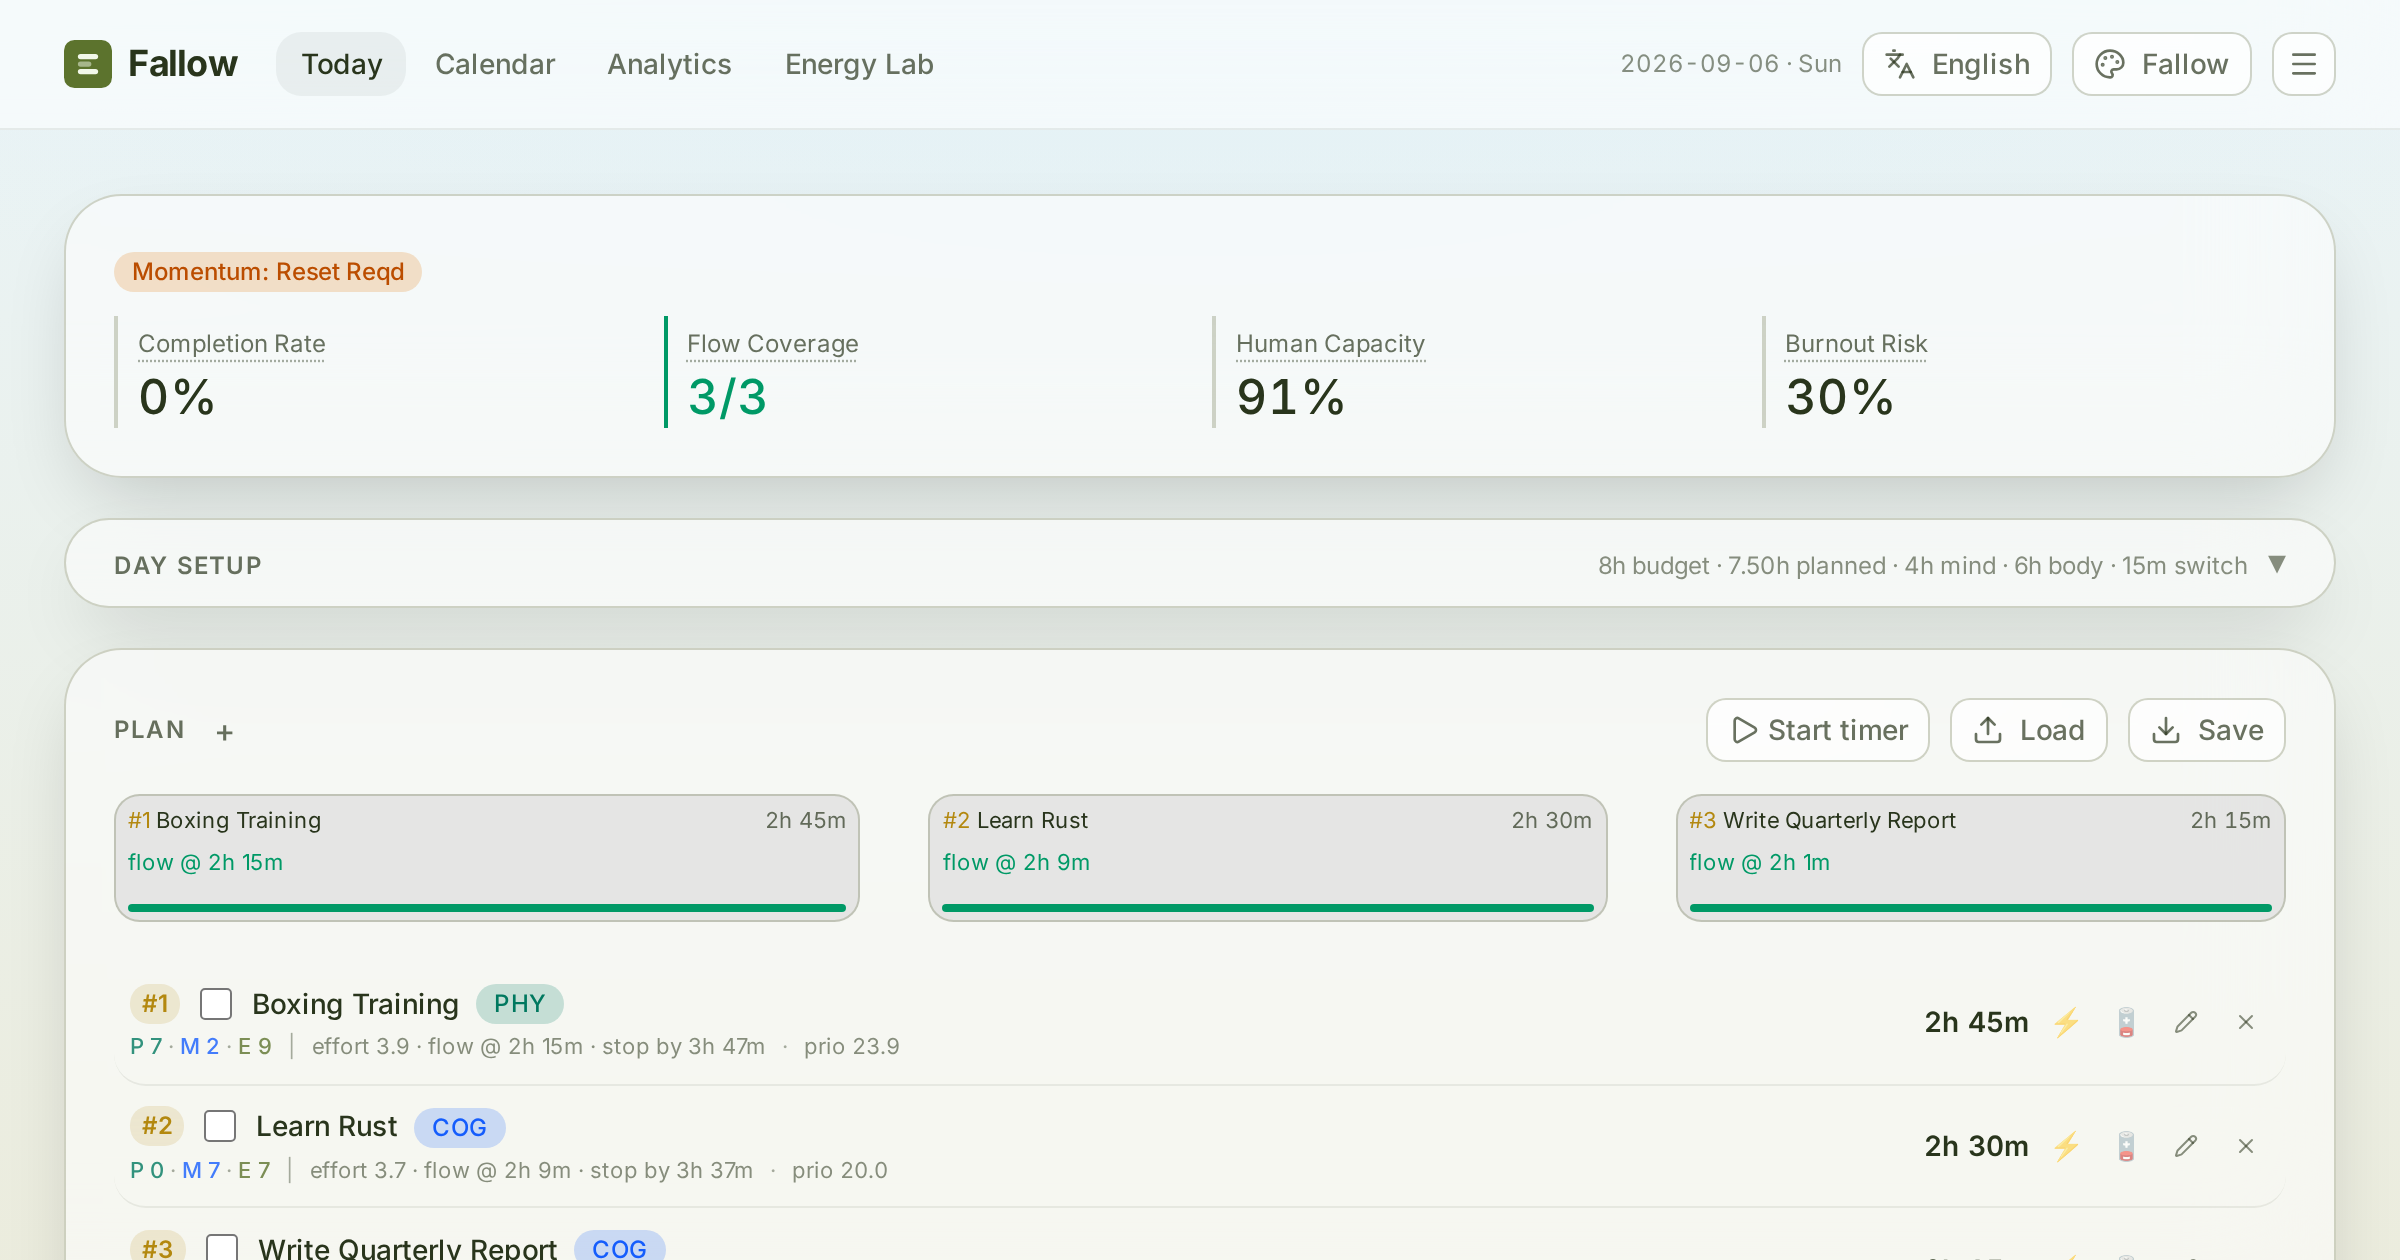
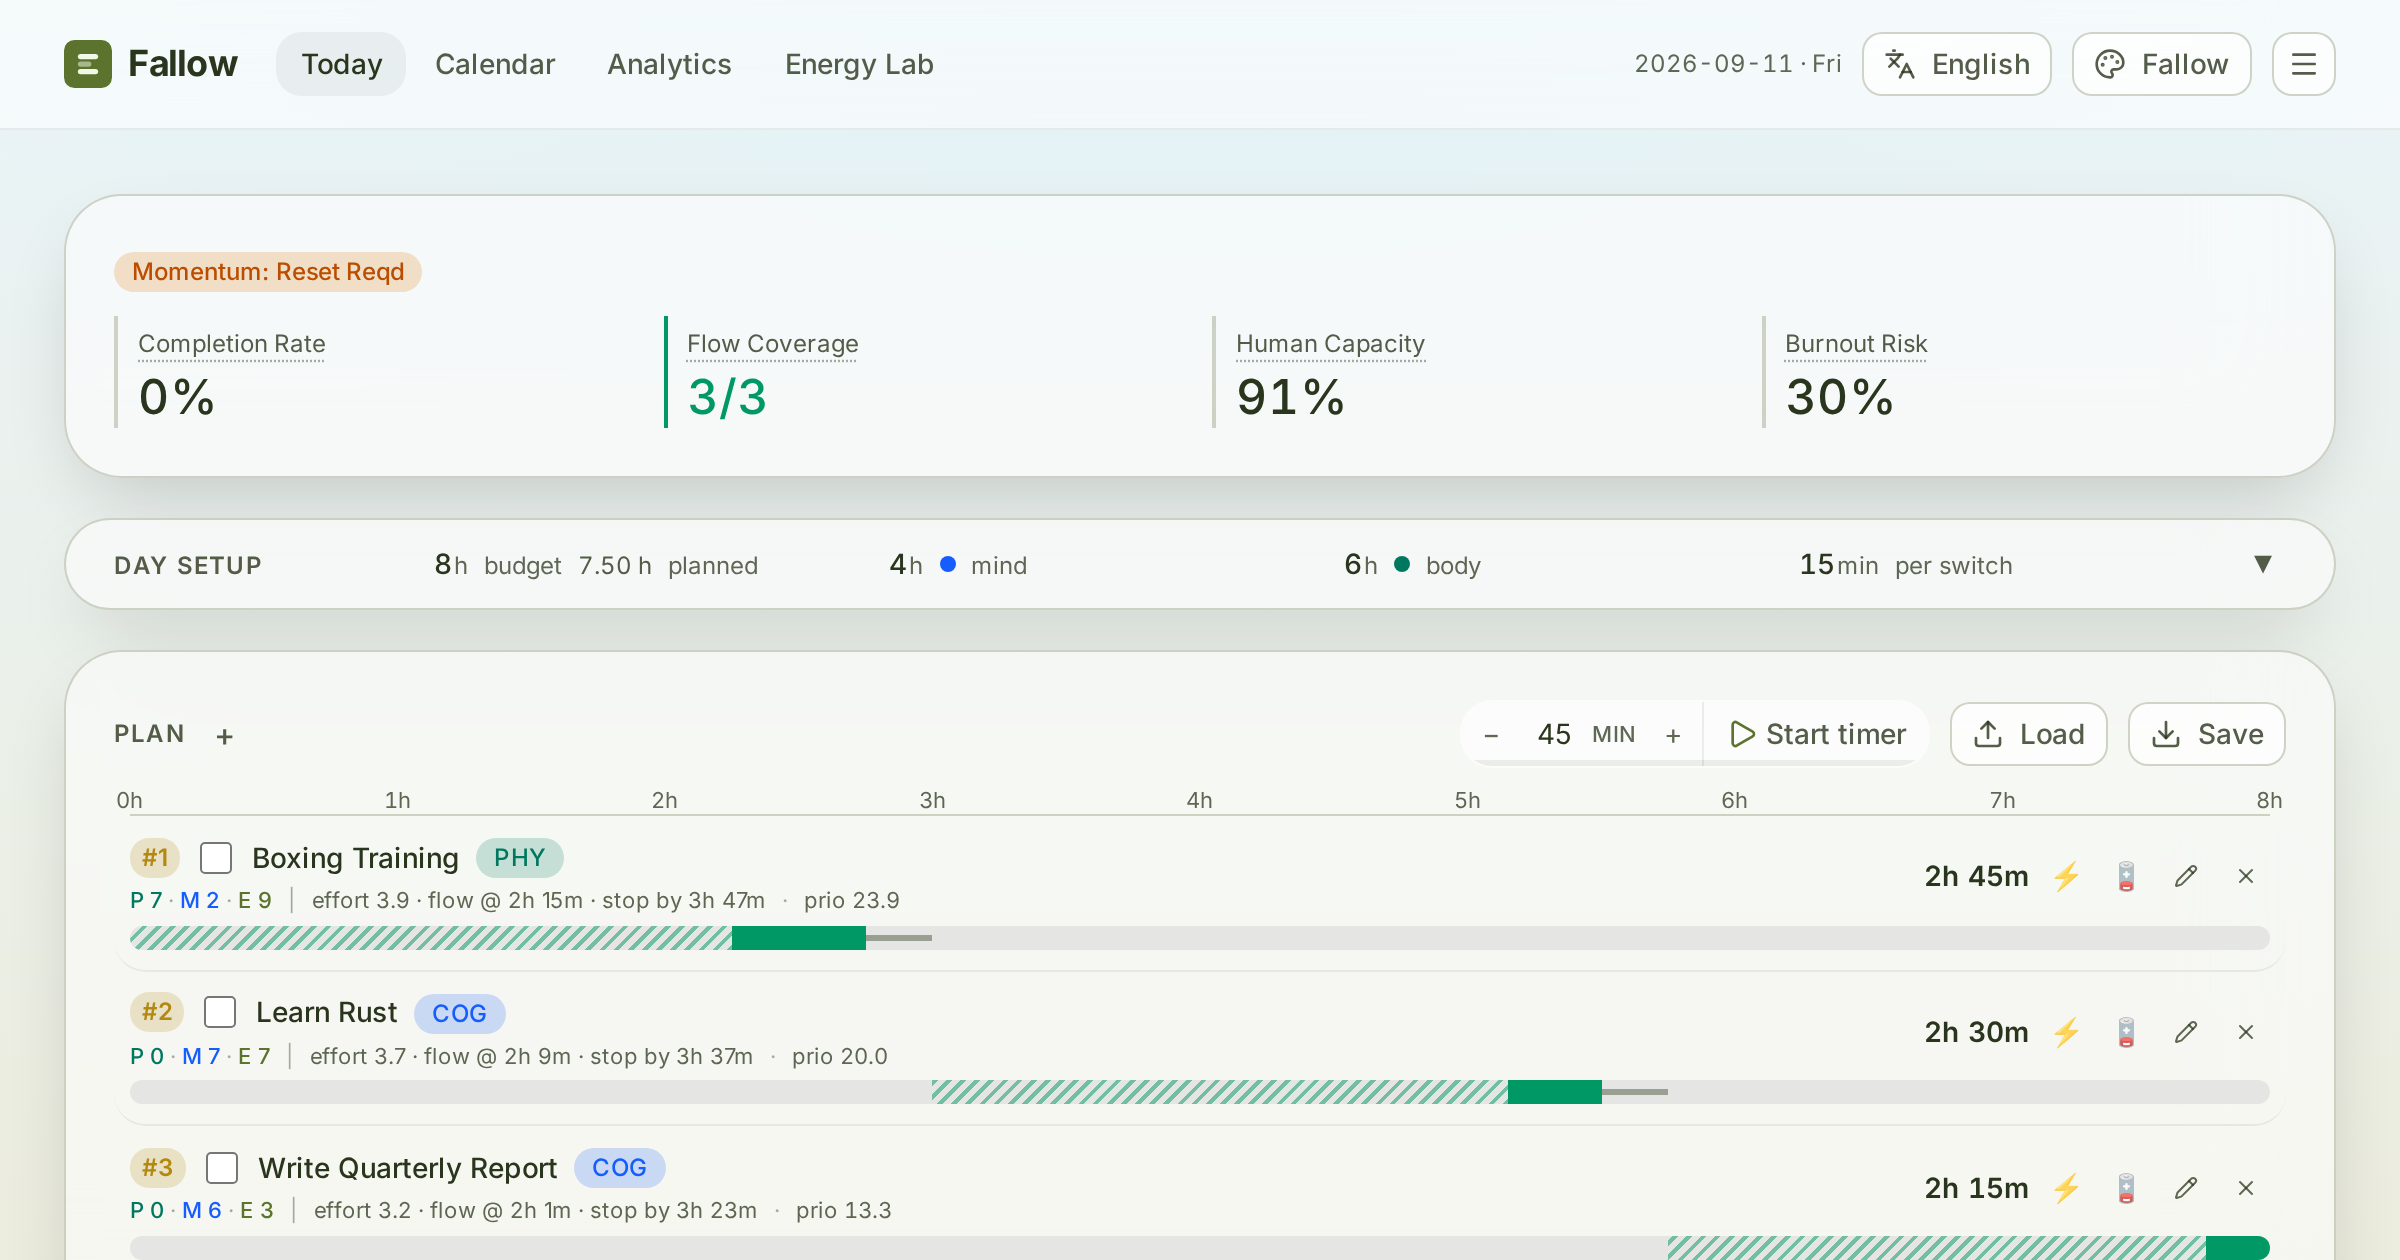
README screenshot script starts its own preview; tighter rail and headline grid
screenshot:readme builds, previews and shoots in one command. Day rail bar
h-2 below lg; metric headline strip two columns on small screens.

diff --git a/src/lib/presentation/component/metric-headline-strip.svelte b/src/lib/presentation/component/metric-headline-strip.svelte
@@ -70,7 +70,7 @@
 	<!-- Four across, each behind a rule in its own band colour — the rule is what
 	     makes an out-of-the-ordinary reading findable without reading any of the
 	     numbers. -->
-	<div class="grid grid-cols-1 gap-grid-sm sm:grid-cols-2 lg:grid-cols-4">
+	<div class="grid grid-cols-2 gap-grid-sm lg:grid-cols-4">
 		{#each headline as item (item.label)}
 			<div class="border-l-2 pl-box-xs {BAND_BORDER_CLASS[item.band]}">
 				<MetricLabel text={item.label} description={item.description} />

diff --git a/src/lib/presentation/component/day-rail.svelte b/src/lib/presentation/component/day-rail.svelte
@@ -24,7 +24,7 @@
      so its dashes paint over the switch fill they share the track with. -->
 <div
 	class={cn(
-		'relative h-3 overflow-hidden rounded-lg bg-surface-inset',
+		'relative h-2 lg:h-3 overflow-hidden rounded-lg bg-surface-inset',
 		block.isCompleted && 'opacity-60',
 		className,
 	)}

diff --git a/.claude/skills/verify/SKILL.md b/.claude/skills/verify/SKILL.md
@@ -18,10 +18,11 @@ plus its open theme-dropdown into `screenshots/`, then Read them.
 
 ## README hero shot
 
-`BASE_URL=http://localhost:4173 node scripts/readme-screenshot.mjs` — seeds a
-fixed three-task day through the app's import and writes
-`static/fallow-daily-time-allocation.png`. Run it against the production
-preview (`npm run build && npm run preview`), not the dev server.
+`npm run screenshot:readme` — builds, starts `vite preview`, seeds a fixed
+three-task day through the app's import and writes
+`static/fallow-daily-time-allocation.png`. `BASE_URL=http://localhost:5173
+node scripts/readme-screenshot.mjs` shoots a running dev server instead, but
+the README should show production styling.
 
 ## Drive (Playwright)
 
